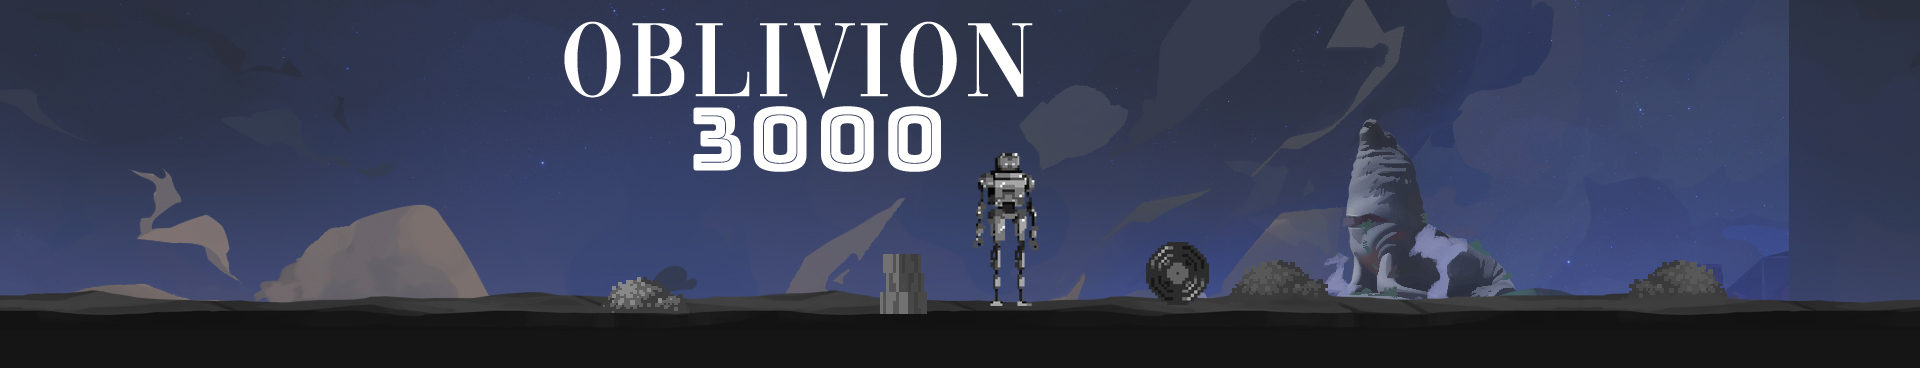
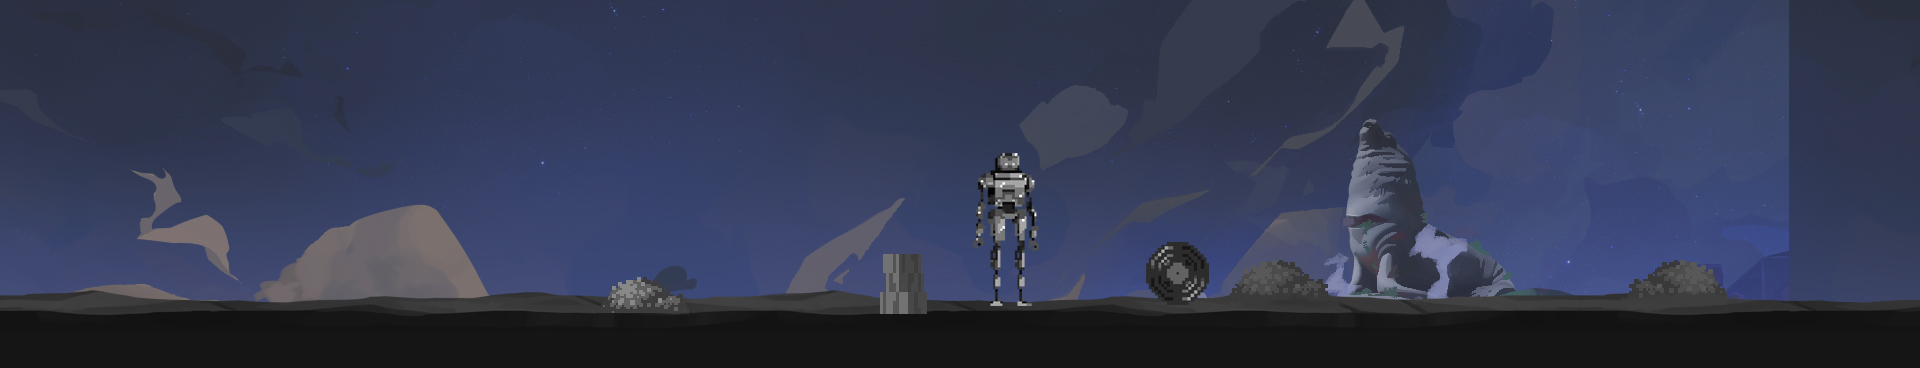
oblivion fix

Changed region(s): [[0.2812, 0.0598, 0.5312, 0.4783]]

diff --git a/index.html b/index.html
@@ -4,7 +4,7 @@
     <meta charset="UTF-8">
     <meta http-equiv="X-UA-Compatible" content="IE=edge">
     <meta name="viewport" content="width=device-width, initial-scale=1.0">
-    <meta property="og:image" content="https://agmarcos5.github.io/portfolio/img/prev.jpg" />
+    <meta property="og:image" content="https://agmarcos5.github.io/img/prev.jpg" />
     <meta property="og:title" content="Marcos Agüero - Portfolio" />
     <meta property="og:description" content="Soy estudiante avanzado de ingeniería informática en la UNMDP y me desempeño como ilustrador freelance.
     Con el objetivo de capacitarme al máximo sobre el front end y desarrollo de videojuegos, áreas que realmente 
@@ -64,9 +64,8 @@
 
             <div class="oblivion-header">
                 <div class="robot-container"><img id="robot" src="./img/sec-oblivion/robot.png" alt="" /></div>
-                <div class="oblivion-header-front" style="top: -100px">
-                    
-                </div>
+                <div class="oblivion-header-front" style="top: -100px"></div>
+                <div class="oblivion-header-title"></div>
                 
             </div>
 

diff --git a/styles/oblivion.css b/styles/oblivion.css
@@ -24,6 +24,20 @@
     top: -70px;
     background-position: center;
     transition: 1s;
+    z-index: 1;
+}
+
+.oblivion-header-title{
+  position: absolute;
+  width: inherit;
+  height: inherit;
+  background-image: url(../img/sec-oblivion/oblivion-header-title.png);
+  background-repeat: no-repeat;
+  top: -87px;
+  left: -160px;
+  background-position: center;
+  transition: 1s;
+  z-index: 0;
 }
 
 .oblivion-header .robot-container{
@@ -44,10 +58,35 @@
 
 @media(max-width:1170px){
   #robot{
-    right: 1% !important;
+    right: -40px !important;
   }
 }
 
+@media(max-width:1100px){
+  #robot{
+    right: 0px !important;
+  }
+}
+
+@media(max-width:990px){
+  #robot{
+    display: none;
+  }
+}
+
+@media(max-width:829px){
+  #robot{
+    display: none;
+  }
+  .oblivion-header-title {
+    top: 30px;
+    left: 0;
+    background-position: center;
+    background-size: contain;
+    max-width: 469px;
+    max-height: 151px;
+  }
+}
 
 /*  CONTENT */
 
